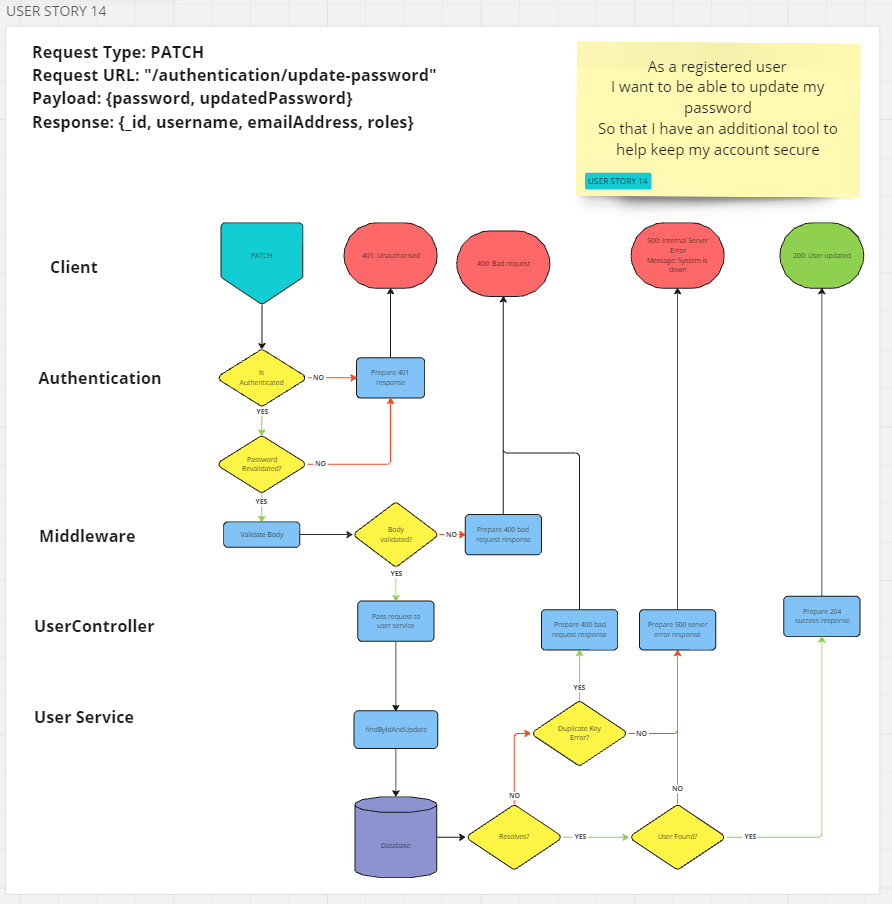
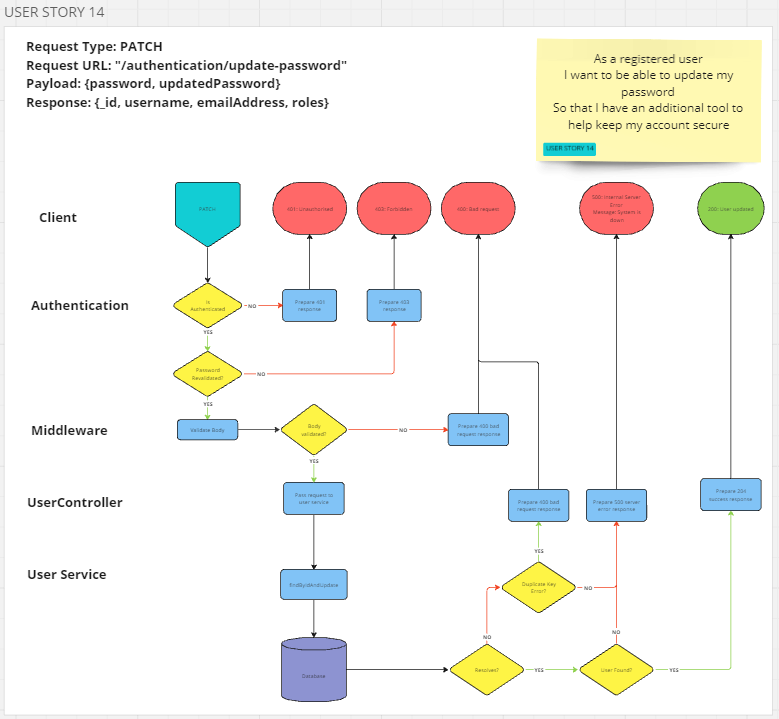
PASSED: INT14-1
It should respond with a status of 200 for a successful request

diff --git a/gc-back-end/test/integration/Authentication.integration.test.js b/gc-back-end/test/integration/Authentication.integration.test.js
@@ -357,7 +357,8 @@ describe("Authentication integration tests: ", () => {
       expect(response.status).to.equal(500);
     });
   });
-  describe("SignOut route test", () => {
+
+  describe("Sign out route tests: ", () => {
     const signOutEndpoint = "/authentication/sign-out";
 
     //? INT4-1
@@ -384,6 +385,46 @@ describe("Authentication integration tests: ", () => {
       const response = await request.post(signOutEndpoint);
       //Assert
       expect(response.body).to.deep.equal({});
+    });
+  });
+
+  describe("Update password route tests: ", () => {
+    const updatePasswordEndpoint = "/authentication/update-password";
+    const userToUpdate = { ...userTestData.documents[0] };
+    let authenticationToken;
+    let testSubmission;
+
+    before(async () => {
+      await User.create(userToUpdate);
+      const response = await request
+        .post("/authentication/sign-in")
+        .send(userTestData.submissions[0]);
+      authenticationToken = response.header["set-cookie"][0];
+    });
+
+    after(async () => {
+      await User.deleteMany();
+    });
+
+    beforeEach(() => {
+      testSubmission = {
+        password: userTestData.submissions[0].password,
+        updatedPassword: "new-password",
+      };
+    });
+    afterEach(() => {
+      testSubmission = null;
+    });
+
+    //? INT14-1
+    it("should respond with a status of 200 for a successful request", async () => {
+      //Act
+      const response = await request
+        .patch(updatePasswordEndpoint)
+        .set("Cookie", authenticationToken)
+        .send(testSubmission);
+      //Assert
+      expect(response.status).to.equal(200);
     });
   });
 });

diff --git a/gc-back-end/src/routes/Authentication.routes.js b/gc-back-end/src/routes/Authentication.routes.js
@@ -18,6 +18,7 @@ export default class AuthenticationRoutes {
     this.#initialiseRegisterRoute();
     this.#initialiseSignInRoute();
     this.#initialiseSignOutRoute();
+    this.#initialiseUpdatePasswordRoute();
   }
 
   #initialiseRegisterRoute() {
@@ -34,6 +35,15 @@ export default class AuthenticationRoutes {
 
   #initialiseSignOutRoute() {
     this.#router.post("/sign-out", this.#authenticationController.signOut);
+  }
+
+  #initialiseUpdatePasswordRoute() {
+    this.#router.patch(
+      "/update-password",
+      this.#authenticationController.requireLoggedIn,
+      this.#authenticationController.requirePassword,
+      this.#authenticationController.updatePassword
+    );
   }
 
   getRouter() {

diff --git a/gc-back-end/test/controllers/Authentication.controller.test.js b/gc-back-end/test/controllers/Authentication.controller.test.js
@@ -538,14 +538,14 @@ describe("Authentication controller tests", () => {
     });
 
     //? AC14-8
-    it("should respond with a status of 401 if bcrypt returns false", async () => {
+    it("should respond with a status of 403 if bcrypt returns false", async () => {
       compareStub.resolves(false);
       //Act
       await authenticationController.requirePassword(req, res, next);
       //Assert
-      expect(res.status.calledWith(401)).to.equal(true);
+      expect(res.status.calledWith(403)).to.equal(true);
       expect(
-        res.json.calledWith(APIErrors.UNAUTHORISED_ERROR.message)
+        res.json.calledWith(APIErrors.PASSWORD_REVALIDATION_ERROR.message)
       ).to.equal(true);
     });
 

diff --git a/gc-back-end/src/utils/APIErrors.js b/gc-back-end/src/utils/APIErrors.js
@@ -32,6 +32,11 @@ export default class APIErrors {
     "An admin permission is required to access this resource"
   );
 
+  static #PASSWORD_REVALIDATION_ERROR = new HTTPError(
+    403,
+    "The password provided is incorrect"
+  );
+
   static #PUZZLE_NOT_FOUND = new HTTPError(404, "Puzzle not found");
 
   static #SERVER_ERROR = new HTTPError(500, "Server error");
@@ -55,6 +60,10 @@ export default class APIErrors {
 
   static get ADMIN_ROLE_REQUIRED_ERROR() {
     return this.#ADMIN_ROLE_REQUIRED_ERROR;
+  }
+
+  static get PASSWORD_REVALIDATION_ERROR() {
+    return this.#PASSWORD_REVALIDATION_ERROR;
   }
 
   static get PUZZLE_NOT_FOUND() {

diff --git a/gc-back-end/src/controllers/Authentication.controller.js b/gc-back-end/src/controllers/Authentication.controller.js
@@ -89,7 +89,7 @@ export default class AuthenticationController {
     if (!submittedPassword) throw APIErrors.UNAUTHORISED_ERROR;
     if (!savedPassword) throw APIErrors.SERVER_ERROR;
     const doMatch = await bcrypt.compare(submittedPassword, savedPassword);
-    if (!doMatch) throw APIErrors.UNAUTHORISED_ERROR;
+    if (!doMatch) throw APIErrors.PASSWORD_REVALIDATION_ERROR;
   };
 
   #validateNoMismatchWithParams = (req) => {

diff --git a/gc-back-end/docs/2._test-plans/user-story-14-test-plan.md b/gc-back-end/docs/2._test-plans/user-story-14-test-plan.md
@@ -33,21 +33,20 @@
 - [x] AC14-5: It should respond with a status of 500 if no req.user.password
 - [x] AC14-6: It should respond with a status of 401 if no req.body.password
 - [x] AC14-7: It should call compare on bcrypt with the correct arguments
-- [x] AC14-8: It should respond with a status of 401 if bcrypt returns false
+- [x] AC14-8: It should respond with a status of 403 if bcrypt returns false
 - [x] AC14-9: It should respond with a status of 500 if bcrypt rejects
 - [x] AC14-10: It should call next if bcrypt returns true
 
 ## Integration Tests (INT)
 
-- [ ] INT14-1: It should respond with a status of 200 for a successful request
+- [x] INT14-1: It should respond with a status of 200 for a successful request
 - [ ] INT14-2: It should respond with the updated user, without their password, for a successful request
 - [ ] INT14-3: It should respond with a 401 status code if no req.cookies.jwt
 - [ ] INT14-4: It should respond with a 401 status code if invalid req.cookies.jwt
-- [ ] INT14-5: It should respond with a 401 status code if user id in req.cookie does not match req.params.userId
-- [ ] INT14-6: It should respond with a 401 status code if the password does not match
-- [ ] INT14-7: It should respond with a 400 response if the updated password is missing
-- [ ] INT14-8: It should respond with a 400 response if the updated password is less than 8 characters
-- [ ] INT14-9: It should respond with a 400 response if the updated password is more than 32 characters
-- [ ] INT14-10: It should respond with a 400 response if the updated password does not contain at least one digit
-- [ ] INT14-11: It should respond with a 400 response if the updated password does not contain at least one special character
-- [ ] INT14-12: It should respond with a 500 response if findByIdAndUpdate rejects
+- [ ] INT14-5: It should respond with a 403 status code if the password does not match
+- [ ] INT14-6: It should respond with a 400 response if the updated password is missing
+- [ ] INT14-7: It should respond with a 400 response if the updated password is less than 8 characters
+- [ ] INT14-8: It should respond with a 400 response if the updated password is more than 32 characters
+- [ ] INT14-9: It should respond with a 400 response if the updated password does not contain at least one digit
+- [ ] INT14-10: It should respond with a 400 response if the updated password does not contain at least one special character
+- [ ] INT14-11: It should respond with a 500 response if findByIdAndUpdate rejects
